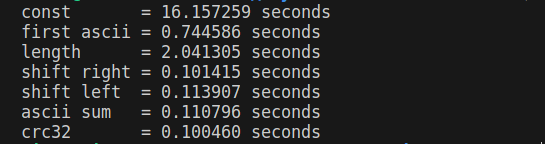
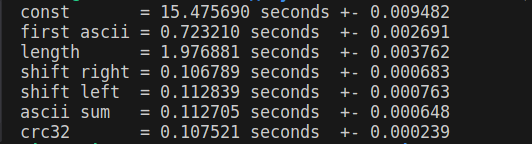
mode 2.0

diff --git a/src/main.cpp b/src/main.cpp
@@ -23,11 +23,19 @@ int main()
     put_hash_into_file(hash_list6, ASCII_SUM_NAME);
     put_hash_into_file(hash_list7, CRC32_NAME);
 
-    printf("const       = %lf seconds\n", get_work_time(hash_list1, const_func));
-    printf("first ascii = %lf seconds\n", get_work_time(hash_list2, first_ascii_func));
-    printf("length      = %lf seconds\n", get_work_time(hash_list3, word_length));
-    printf("shift right = %lf seconds\n", get_work_time(hash_list4, shift_right));
-    printf("shift left  = %lf seconds\n", get_work_time(hash_list5, shift_left));
-    printf("ascii sum   = %lf seconds\n", get_work_time(hash_list6, ascii_sum));
-    printf("crc32       = %lf seconds\n", get_work_time(hash_list7, crc32));
+    double* measurement = measure_sample(hash_list1, const_func);
+    printf("const       = %lf seconds\t+- %lf\n", measurement[0], measurement[1]);
+    measurement = measure_sample(hash_list2, first_ascii_func);
+    printf("first ascii = %lf seconds\t+- %lf\n", measurement[0], measurement[1]);
+    measurement = measure_sample(hash_list3, word_length);
+    printf("length      = %lf seconds\t+- %lf\n", measurement[0], measurement[1]);
+    measurement = measure_sample(hash_list4, shift_right);
+    printf("shift right = %lf seconds\t+- %lf\n", measurement[0], measurement[1]);
+    measurement = measure_sample(hash_list5, shift_left);
+    printf("shift left  = %lf seconds\t+- %lf\n", measurement[0], measurement[1]);
+    measurement = measure_sample(hash_list6, ascii_sum);
+    printf("ascii sum   = %lf seconds\t+- %lf\n", measurement[0], measurement[1]);
+    measurement = measure_sample(hash_list7, crc32);
+    printf("crc32       = %lf seconds\t+- %lf\n", measurement[0], measurement[1]);
+    free(measurement);
 }

diff --git a/src/search.cpp b/src/search.cpp
@@ -1,21 +1,21 @@
 #include "hash.h"
 
 // my_strcmp.asm
- extern "C" int my_strcmp(char* word1, char* word2);
+//  extern "C" int my_strcmp(char* word1, char* word2);
 
 //===============================================
 
 word_pos search_elem_in_list(list_struct** list, char* word, int (*cmptor)(char*))
 {
     word_pos position;
-    volatile int cmp = 0;
+    int cmp = 0;
     int list_ind = cmptor(word);
     int size = list[list_ind]->size;
 
     for (int i = 0; i < size; ++i)
     {
         #ifdef MY_STRCMP
-        cmp = my_strcmp(list[list_ind]->data[i], word);
+        cmp = fast_strcmp(list[list_ind]->data[i], word);
         #else
         cmp = strcmp(list[list_ind]->data[i], word);
         #endif
@@ -31,27 +31,11 @@ word_pos search_elem_in_list(list_struct** list, char* word, int (*cmptor)(char*
     return (word_pos)position;
 }
 
-//=================================================
-
-double get_work_time(list_struct** list, int (*cmptor)(char*))
-{
-    word_pos pos;
-    const char* check_list[CHECK_LIST_LEN] = CHECK_LIST;
-   clock_t begin = clock();
-    for (int i = 0; i < CHECK_LIST_LEN; i++)
-    {
-        for (int _ = 0; _ < ITER_QTY; _++)
-            pos = search_elem_in_list(list, (char*)check_list[i], cmptor);
-    }
-   clock_t end = clock();
-
-   return (double)(end - begin) / CLOCKS_PER_SEC;
-}
-
 //=============================================
 
-int fast_strcmp_avx2(char* s1, char* s2)
+int fast_strcmp(char* s1, char* s2)
 {
+    #ifdef MY_STRCMP
     __m256i v1, v2, cmp_result;
     int mask = 0;
     const __m256i zero = _mm256_setzero_si256();
@@ -72,5 +56,7 @@ int fast_strcmp_avx2(char* s1, char* s2)
         s1 += 32;
         s2 += 32;
     }
+    #else
     return 0;
+    #endif
 }

diff --git a/src/measuring.cpp b/src/measuring.cpp
@@ -1,0 +1,47 @@
+#include "hash.h"
+
+
+double* measure_sample(list_struct** list, int (*cmptor)(char*))
+{
+    double* time_and_accuracy = (double*) calloc(2, sizeof(double));
+
+    double oper_times[SAMPLE];
+    double time_sum = 0, accuracy = 0, med_time = 0;
+
+    for (int i = 0; i < SAMPLE; i++)
+    {
+        oper_times[i] = get_work_time(list, cmptor);
+        time_sum += oper_times[i];
+    }
+
+    med_time = time_sum / SAMPLE;
+    for (int i = 0; i < SAMPLE; i++)
+    {
+        accuracy += (med_time - oper_times[i]) * (med_time - oper_times[i]);
+    }
+
+    accuracy = sqrt(accuracy / SAMPLE);
+
+    time_and_accuracy[0] = med_time;
+    time_and_accuracy[1] = accuracy;
+
+    return time_and_accuracy;
+}
+//=========================================================
+
+double get_work_time(list_struct** list, int (*cmptor)(char*))
+{
+    word_pos pos;
+    const char* check_list[CHECK_LIST_LEN] = CHECK_LIST;
+   clock_t begin = clock();
+    for (int i = 0; i < CHECK_LIST_LEN; i++)
+    {
+        for (int _ = 0; _ < ITER_QTY; _++)
+            pos = search_elem_in_list(list, (char*)check_list[i], cmptor);
+    }
+   clock_t end = clock();
+
+   return (double)(end - begin) / CLOCKS_PER_SEC;
+}
+
+//=======================================================

diff --git a/src/hash.h b/src/hash.h
@@ -10,16 +10,18 @@ typedef struct {
     int word_ind;
 } word_pos;
 
-// extern "C" {int my_strcmp(char* word1, char* word2);}
+
+
 // file.cpp
 void fill_word_array(char** word_array);
 size_t find_file_size(FILE* fp);
 size_t take_symb_qty();
 void put_hash_into_file(list_struct** hash_list, const char* file_name);
+
 // search.cpp
-word_pos search_elem_in_list(list_struct* list, char* word);
-double get_work_time(list_struct** list, int (*cmptor)(char*));
-int fast_strcmp_avx2(char* s1, char* s2);
+word_pos search_elem_in_list(list_struct** list, char* word, int (*cmptor)(char*));
+int fast_strcmp(char* s1, char* s2);
+
 // hash_functions.cpp
 list_struct** make_hash_table(int (*cmptor)(char*), char** word_array, size_t word_qty);
 int const_func(char* word);
@@ -30,5 +32,9 @@ int shift_left(char* word);
 int ascii_sum(char* word);
 int crc32(char* word);
 int new_strlen(char* word);
+
+// measuring.cpp
+double* measure_sample(list_struct** list, int (*cmptor)(char*));
+double get_work_time(list_struct** list, int (*cmptor)(char*));
 
 #endif

diff --git a/src/hash-functions.cpp b/src/hash-functions.cpp
@@ -1,5 +1,8 @@
 #include "hash.h"
 
+// my_crc32.asm
+extern "C" int my_crc32(char* word, int length);
+
 //=========================================
 
 list_struct** make_hash_table(int (*cmptor)(char*), char** word_array, size_t word_qty)
@@ -153,12 +156,13 @@ int crc32(char* word)
     unsigned int crc = 0xffffffff;
 
     #ifdef MY_CRC32
-	for (int i = 0; i < new_strlen(word); i++)
-          crc = _mm_crc32_u8(crc, (unsigned char)word[i]);
+	// for (int i = 0; i < new_strlen(word); i++)
+    //       crc = _mm_crc32_u8(crc, (unsigned char)word[i]);
+    crc = my_crc32(word, new_strlen(word));
     return (int)(crc % HASH_TABLE_SIZE);
     #else
 
-    for (int i = 0; i < strlen(word); i++)
+    for (int i = 0; i < new_strlen(word); i++)
     {
         crc = poly8_lookup[(crc ^ (unsigned int)word[i]) % HASH_TABLE_SIZE] ^ (crc >> 8);
     }
@@ -190,3 +194,5 @@ int new_strlen(char* word)
 
     return len;
 }
+
+//=================================================

diff --git a/src/file.cpp b/src/file.cpp
@@ -49,12 +49,9 @@ size_t take_symb_qty()
 
 void put_hash_into_file(list_struct** hash_list, const char* file_name)
 {
-   // fprintf(stderr, "LEFT\n");
     FILE* fp = fopen(file_name, "w");
     for (int i = 0; i < HASH_TABLE_SIZE; i++)
     {
-        // print_list(hash_list[i]);
-        // fprintf(stderr, "%d", hash_list[i]->size);
         fprintf(fp, "%d\n", hash_list[i]->size);
     }
     fclose(fp);

diff --git a/general/dsl.h b/general/dsl.h
@@ -54,3 +54,5 @@ typedef unsigned int unint;
 #define CHECK_LIST_LEN 94
 
 #define ITER_QTY 50000
+
+#define SAMPLE 5

diff --git a/general/libr.h b/general/libr.h
@@ -6,3 +6,4 @@
 #include <immintrin.h>
 #include <nmmintrin.h>
 #include <smmintrin.h>
+#include <math.h>

diff --git a/readme.md b/readme.md
@@ -3,7 +3,8 @@
 ## Задачи:
 * написать Hash-таблицу
 * написать 7 Hash-функций;
-* написать 3 оптимизации;
+* Найти самую быструю функцию для вычисления хэша
+* написать 3 оптимизации для ускорения поиска элементов Hash-таблицы;
     * asm-вставка
     * intrinsics-функции
     * функция из *.asm
@@ -33,6 +34,82 @@ medium value - среднее медианное значение.
 
 Как мы видим, самые "прожорливые" функции, которые поддаются оптимизации - **strlen**, **strcmp** и **crc32**. Ими мы и займемся!!!
 
+1) **strlen** - пишем asm-вставку
+
+<details>
+<summary>my_strlen</summary>
+
+```C
+int new_strlen(char* word)
+{
+    int len = 0;
+    __asm__ ("push %1; \n\t"
+            "mov rcx, 100; \n\t"
+            "mov rsi, %1; \n\t"
+            "mov al, 0; \n\t"
+            "repne scasb; \n\t"
+            "mov %0, 99; \n\t"
+            "sub %0, ecx; \n\t"
+            "pop %1; \n\t"
+            : "=a"(len)
+            : "g"(word));
+    return len;
+}
+```
+</details>
+
+
+2) crc32 - сделаем asm-файл.
+
+<details>
+<summary>my_crc32</summary>
+
+```assembly
+my_crc32:
+    xor rax, rax
+    mov eax, -1
+    mov r11, 0
+Next_iter:
+    crc32 eax, byte [rdi + r11]
+    inc r11
+    cmp r11, rsi
+    jb Next_iter
+    ret
+```
+</details>
+
+3) strcmp - реализуем через SIMD-инструкции
+
+<details>
+<summary>fast_strcmp</summary>
+
+```C
+int fast_strcmp(char* s1, char* s2)
+{
+    __m256i v1, v2, cmp_result;
+    int mask = 0;
+    const __m256i zero = _mm256_setzero_si256();
+
+    while (1) {
+        v1 = _mm256_loadu_si256((__m256i*)s1);
+        v2 = _mm256_loadu_si256((__m256i*)s2);
+
+        cmp_result = _mm256_cmpeq_epi8(v1, v2);
+        mask = ~_mm256_movemask_epi8(cmp_result);
+
+        if (mask != 0)
+        {
+            int index = __builtin_ctz(mask) - 1;
+            return (s1[index] == '\0' && s2[index] == '\0') ? 0 : -1;
+        }
+
+        s1 += 32;
+        s2 += 32;
+    }
+    return 0;
+}
+```
+</details>
 Оцениваем время по поиску 4 700  000 элементов.
 
 |без оптимизации|-O3|
